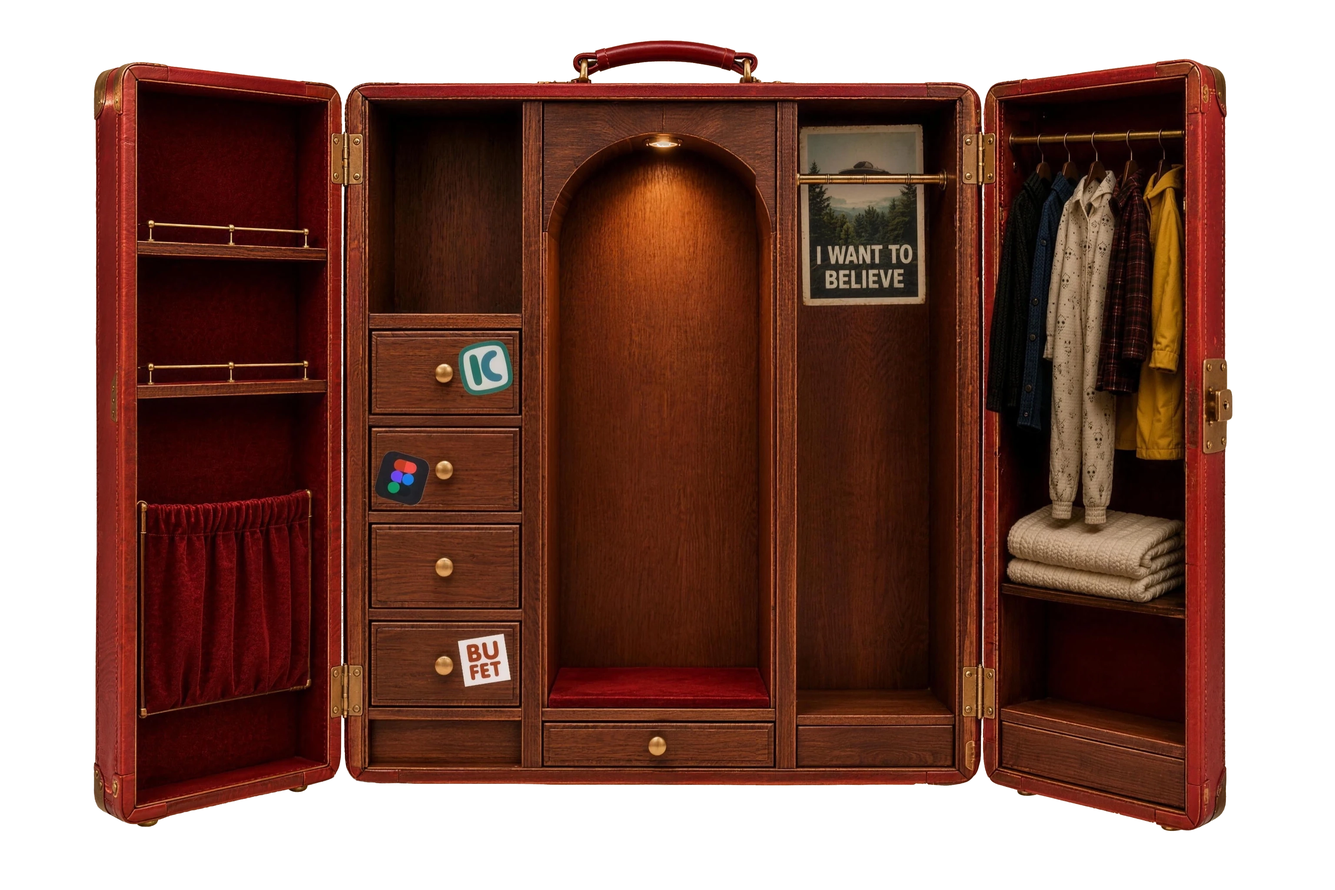
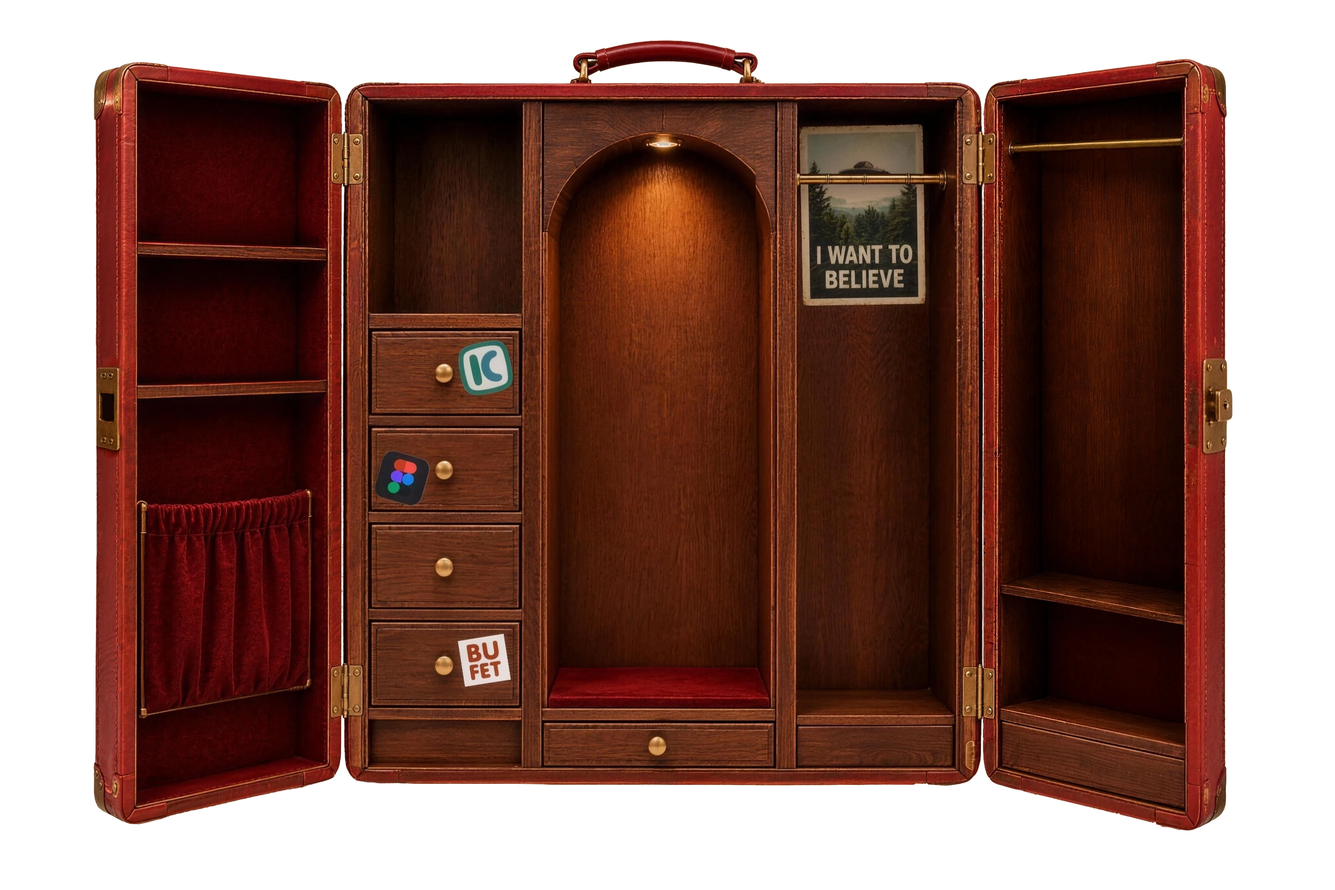
Empty wardrobe baked into the case: plate and rail patches gone
Kate re-exported open2 with the wardrobe emptied and the left door's brass
guard rails removed, so the three overlays that used to paint them out — the
wardrobe plate and both rail patches, 812KB together — are no longer needed.
Geometry is unchanged; only the case's own pixels differ.

diff --git a/app/page.tsx b/app/page.tsx
@@ -601,69 +601,11 @@ export default function Home() {
           </Link>
         </InkTip>
 
-        {/* Both brass guard rails on the left door's shelves, painted out —
-            Kate asked for them gone. Each patch is made of the case's own wall:
-            the clean wood directly above the rail, mirrored down and ramped
-            into the tone just below it, laid over the rail with a feathered
-            edge, so open2 itself is left alone. The posts' feet stand on the
-            shelf band, which is uniform along its length, so they are wiped by
-            replacing each pixel there with the median of a wide run of its own
-            row — narrow things vanish, the band's tone survives. The shelves'
-            front edges stay. */}
-        {/* eslint-disable-next-line @next/next/no-img-element */}
-        <img
-          src="/items/right-rail-patch-top.png"
-          alt=""
-          aria-hidden
-          style={{
-            position: "absolute",
-            left: "9.25%",
-            top: "23.95%",
-            width: "14.3%",
-            height: "4.8%",
-            zIndex: 2,
-            pointerEvents: "none",
-          }}
-          draggable={false}
-        />
-        {/* eslint-disable-next-line @next/next/no-img-element */}
-        <img
-          src="/items/right-rail-patch.png"
-          alt=""
-          aria-hidden
-          style={{
-            position: "absolute",
-            left: "9.25%",
-            top: "39.25%",
-            width: "14.3%",
-            height: "4.3%",
-            zIndex: 2,
-            pointerEvents: "none",
-          }}
-          draggable={false}
-        />
-
         {/* ── The wardrobe ──────────────────────────────────────────────
-            The empty plate first, then one hanger per outfit. The plate covers
-            the baked-in clothes; the hangers are what the doll actually wears,
-            so each one vanishes while she has it on. The rail runs on `shown`,
-            so it changes together with the doll in the niche. */}
-        {/* eslint-disable-next-line @next/next/no-img-element */}
-        <img
-          src="/items/wardrobe/right-rail-empty.png"
-          alt=""
-          aria-hidden
-          style={{
-            position: "absolute",
-            left: `${WARDROBE.l}%`,
-            top: `${WARDROBE.t}%`,
-            width: `${WARDROBE.w}%`,
-            height: `${WARDROBE.h}%`,
-            zIndex: 2,
-            pointerEvents: "none",
-          }}
-          draggable={false}
-        />
+            One hanger per outfit: the case now ships with an empty wardrobe,
+            so there is no plate to cover baked-in clothes. The hangers are what
+            the doll actually wears, so each one vanishes while she has it on.
+            The rail runs on `shown`, so it changes together with the doll. */}
 
         {/* The folded throws, back on the shelf they were taken off. The shelf's
             front edge is not level — it drops 0.2583 %y per %x as the wardrobe
